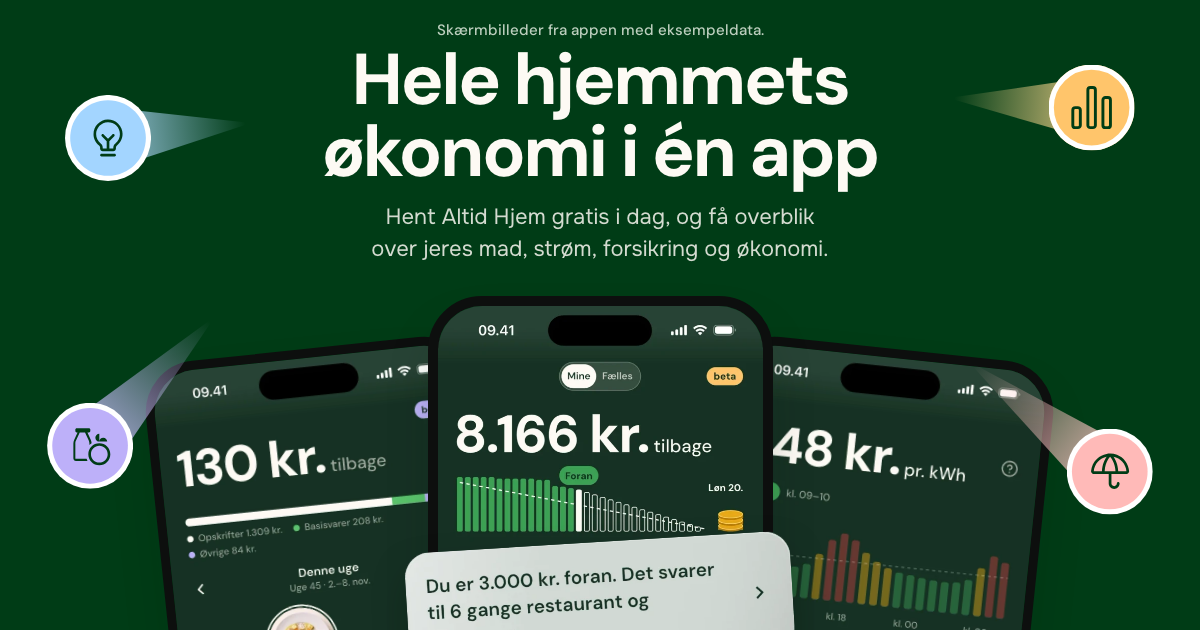
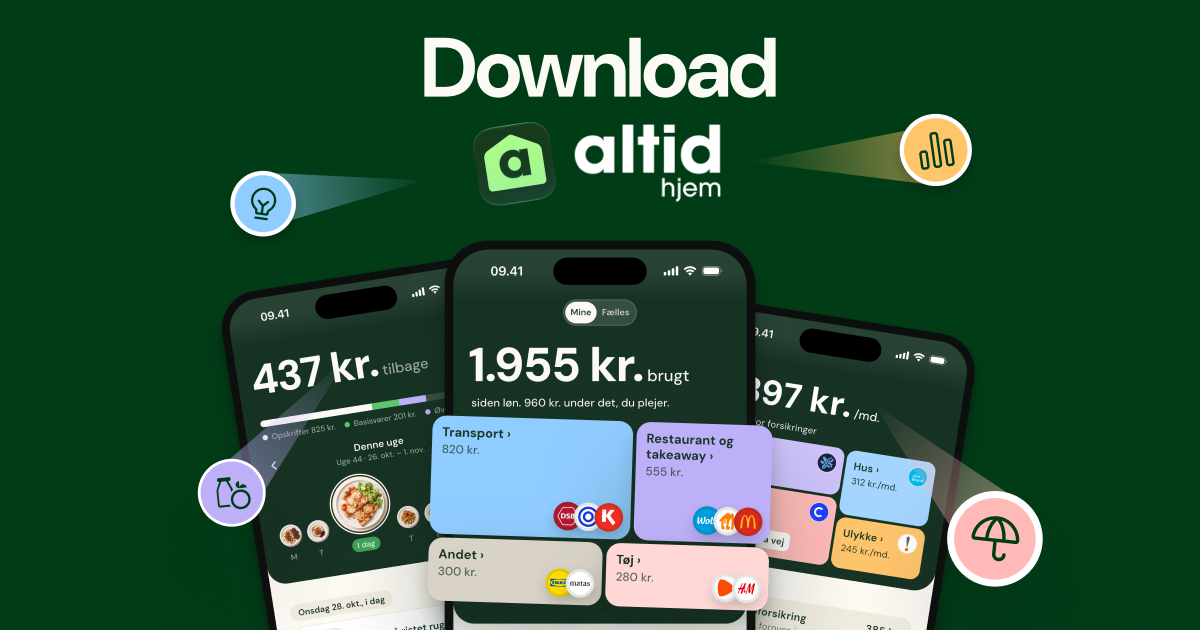
feat(og): link preview image in the M0 mail header look ("Download") (#168)
The site's link preview image (app/opengraph-image.png, 1200 x 630) is now the
header of the M0 welcome mail scaled up, with the title "Download" over the app
icon and the Altid Hjem logo (Figma 11285:3). Thor did not like the old one.
Alt text (META.imageAlt and opengraph-image.alt.txt) says what the new image
shows.

The four places that name the image by a bare URL (the front page's metadata,
/app, /hent and the guides' article schema) now ask for
/opengraph-image.png?v=2, so Facebook, LinkedIn and Slack fetch the new image
instead of the one cached under the old URL. Routes on the Next file convention
already get a new content hash. Tests that pin the URL follow.

diff --git a/test/hent-route.test.ts b/test/hent-route.test.ts
@@ -26,7 +26,7 @@ describe('/hent', () => {
       expect(html).toContain(
         '<meta property="og:description" content="Mad, strøm, forsikring og økonomi i ét overblik. Det er gratis at komme i gang.">',
       )
-      expect(html).toContain('<meta property="og:image" content="https://www.altidhjem.dk/opengraph-image.png">')
+      expect(html).toContain('<meta property="og:image" content="https://www.altidhjem.dk/opengraph-image.png?v=2">')
       expect(html).not.toContain('apps.apple.com')
       expect(res.headers.get('vary')).toBe('User-Agent')
       expect(res.headers.get('cache-control')).toBe('no-store')

diff --git a/components/site/copy.ts b/components/site/copy.ts
@@ -479,7 +479,7 @@ export const FOOTER = {
 export const META = {
   title: 'Altid Hjem: hele hjemmets økonomi i én app',
   description: 'Altid Hjem samler jeres mad, strøm, forsikring og økonomi i én app. Ét overblik, ét login. Hent appen gratis i App Store og Google Play.',
-  imageAlt: 'Altid Hjem: hele hjemmets økonomi i én app. Tre telefoner med appen og de fire tjenester.',
+  imageAlt: 'Download Altid Hjem. Tre telefoner med appen: madplanen, månedens forbrug og forsikringerne.',
 } as const
 
 // The press page (/presse), for all of Altid Hjem: the four parts of the app are categories

diff --git a/test/site-home.test.tsx b/test/site-home.test.tsx
@@ -526,7 +526,7 @@ describe('FAQ and JSON-LD', () => {
     const og = metadata.openGraph as { title: string; images: { url: string; alt: string }[] }
     const twitter = metadata.twitter as { card: string; images: unknown[] }
     expect(og.title).toBe(metadata.title)
-    expect(og.images[0].url).toBe('/opengraph-image.png')
+    expect(og.images[0].url).toBe('/opengraph-image.png?v=2')
     expect(twitter.card).toBe('summary_large_image')
     expect(twitter.images).toHaveLength(1)
     expect(JSON.stringify(metadata)).not.toMatch(/snart|venteliste|én regning|lancer/i)

diff --git a/app/page.tsx b/app/page.tsx
@@ -27,7 +27,7 @@ import Blog from '@/components/sections/Blog'
 import { APP_STORE_ID } from '@/lib/store-links'
 import './site.css'
 
-const IMAGE = { url: '/opengraph-image.png', width: 1200, height: 630, alt: META.imageAlt }
+const IMAGE = { url: '/opengraph-image.png?v=2', width: 1200, height: 630, alt: META.imageAlt }
 
 // Full Open Graph and Twitter here: nested objects replace the layout's, they do not merge.
 // itunes: Safari on an iPhone shows Apple's own app banner on this page only.

diff --git a/app/hent/route.ts b/app/hent/route.ts
@@ -22,7 +22,7 @@ const LINKEDIN_TARGET = '/m/li-werner/header'
 // human never sees this page; if one does, it leads to the front page.
 const PREVIEW_TITLE = 'Hent Altid Hjem'
 const PREVIEW_DESCRIPTION = 'Mad, strøm, forsikring og økonomi i ét overblik. Det er gratis at komme i gang.'
-const PREVIEW_IMAGE = 'https://www.altidhjem.dk/opengraph-image.png'
+const PREVIEW_IMAGE = 'https://www.altidhjem.dk/opengraph-image.png?v=2'
 const PREVIEW_HTML = `<!doctype html>
 <html lang="da">
 <head>

diff --git a/app/app/route.ts b/app/app/route.ts
@@ -20,7 +20,7 @@ const INVITE_TARGET = '/m/invite/header'
 // human never sees this page; if one does, it leads to the front page.
 const PREVIEW_TITLE = 'Prøv Altid Hjem'
 const PREVIEW_DESCRIPTION = 'Mad, strøm, forsikring og økonomi i ét overblik. Det er gratis at komme i gang.'
-const PREVIEW_IMAGE = 'https://www.altidhjem.dk/opengraph-image.png'
+const PREVIEW_IMAGE = 'https://www.altidhjem.dk/opengraph-image.png?v=2'
 const PREVIEW_HTML = `<!doctype html>
 <html lang="da">
 <head>

diff --git a/test/guide-parts.test.tsx b/test/guide-parts.test.tsx
@@ -102,7 +102,7 @@ describe('a guide with the recipe parts', () => {
       headline: 'Hvad koster en husforsikring?',
       url: 'https://www.altidhjem.dk/hvad-koster-en-husforsikring',
       inLanguage: 'da-DK',
-      image: 'https://www.altidhjem.dk/opengraph-image.png',
+      image: 'https://www.altidhjem.dk/opengraph-image.png?v=2',
       datePublished: '2026-11-01',
       dateModified: '2026-11-16',
       author: { '@type': 'Organization', name: 'Altid Hjem ApS' },

diff --git a/components/site/Guide.tsx b/components/site/Guide.tsx
@@ -249,7 +249,7 @@ export default function Guide({
     url,
     mainEntityOfPage: url,
     inLanguage: 'da-DK',
-    image: `${SITE}/opengraph-image.png`,
+    image: `${SITE}/opengraph-image.png?v=2`,
     datePublished: page.published,
     dateModified: page.updated,
     author: organisation,
